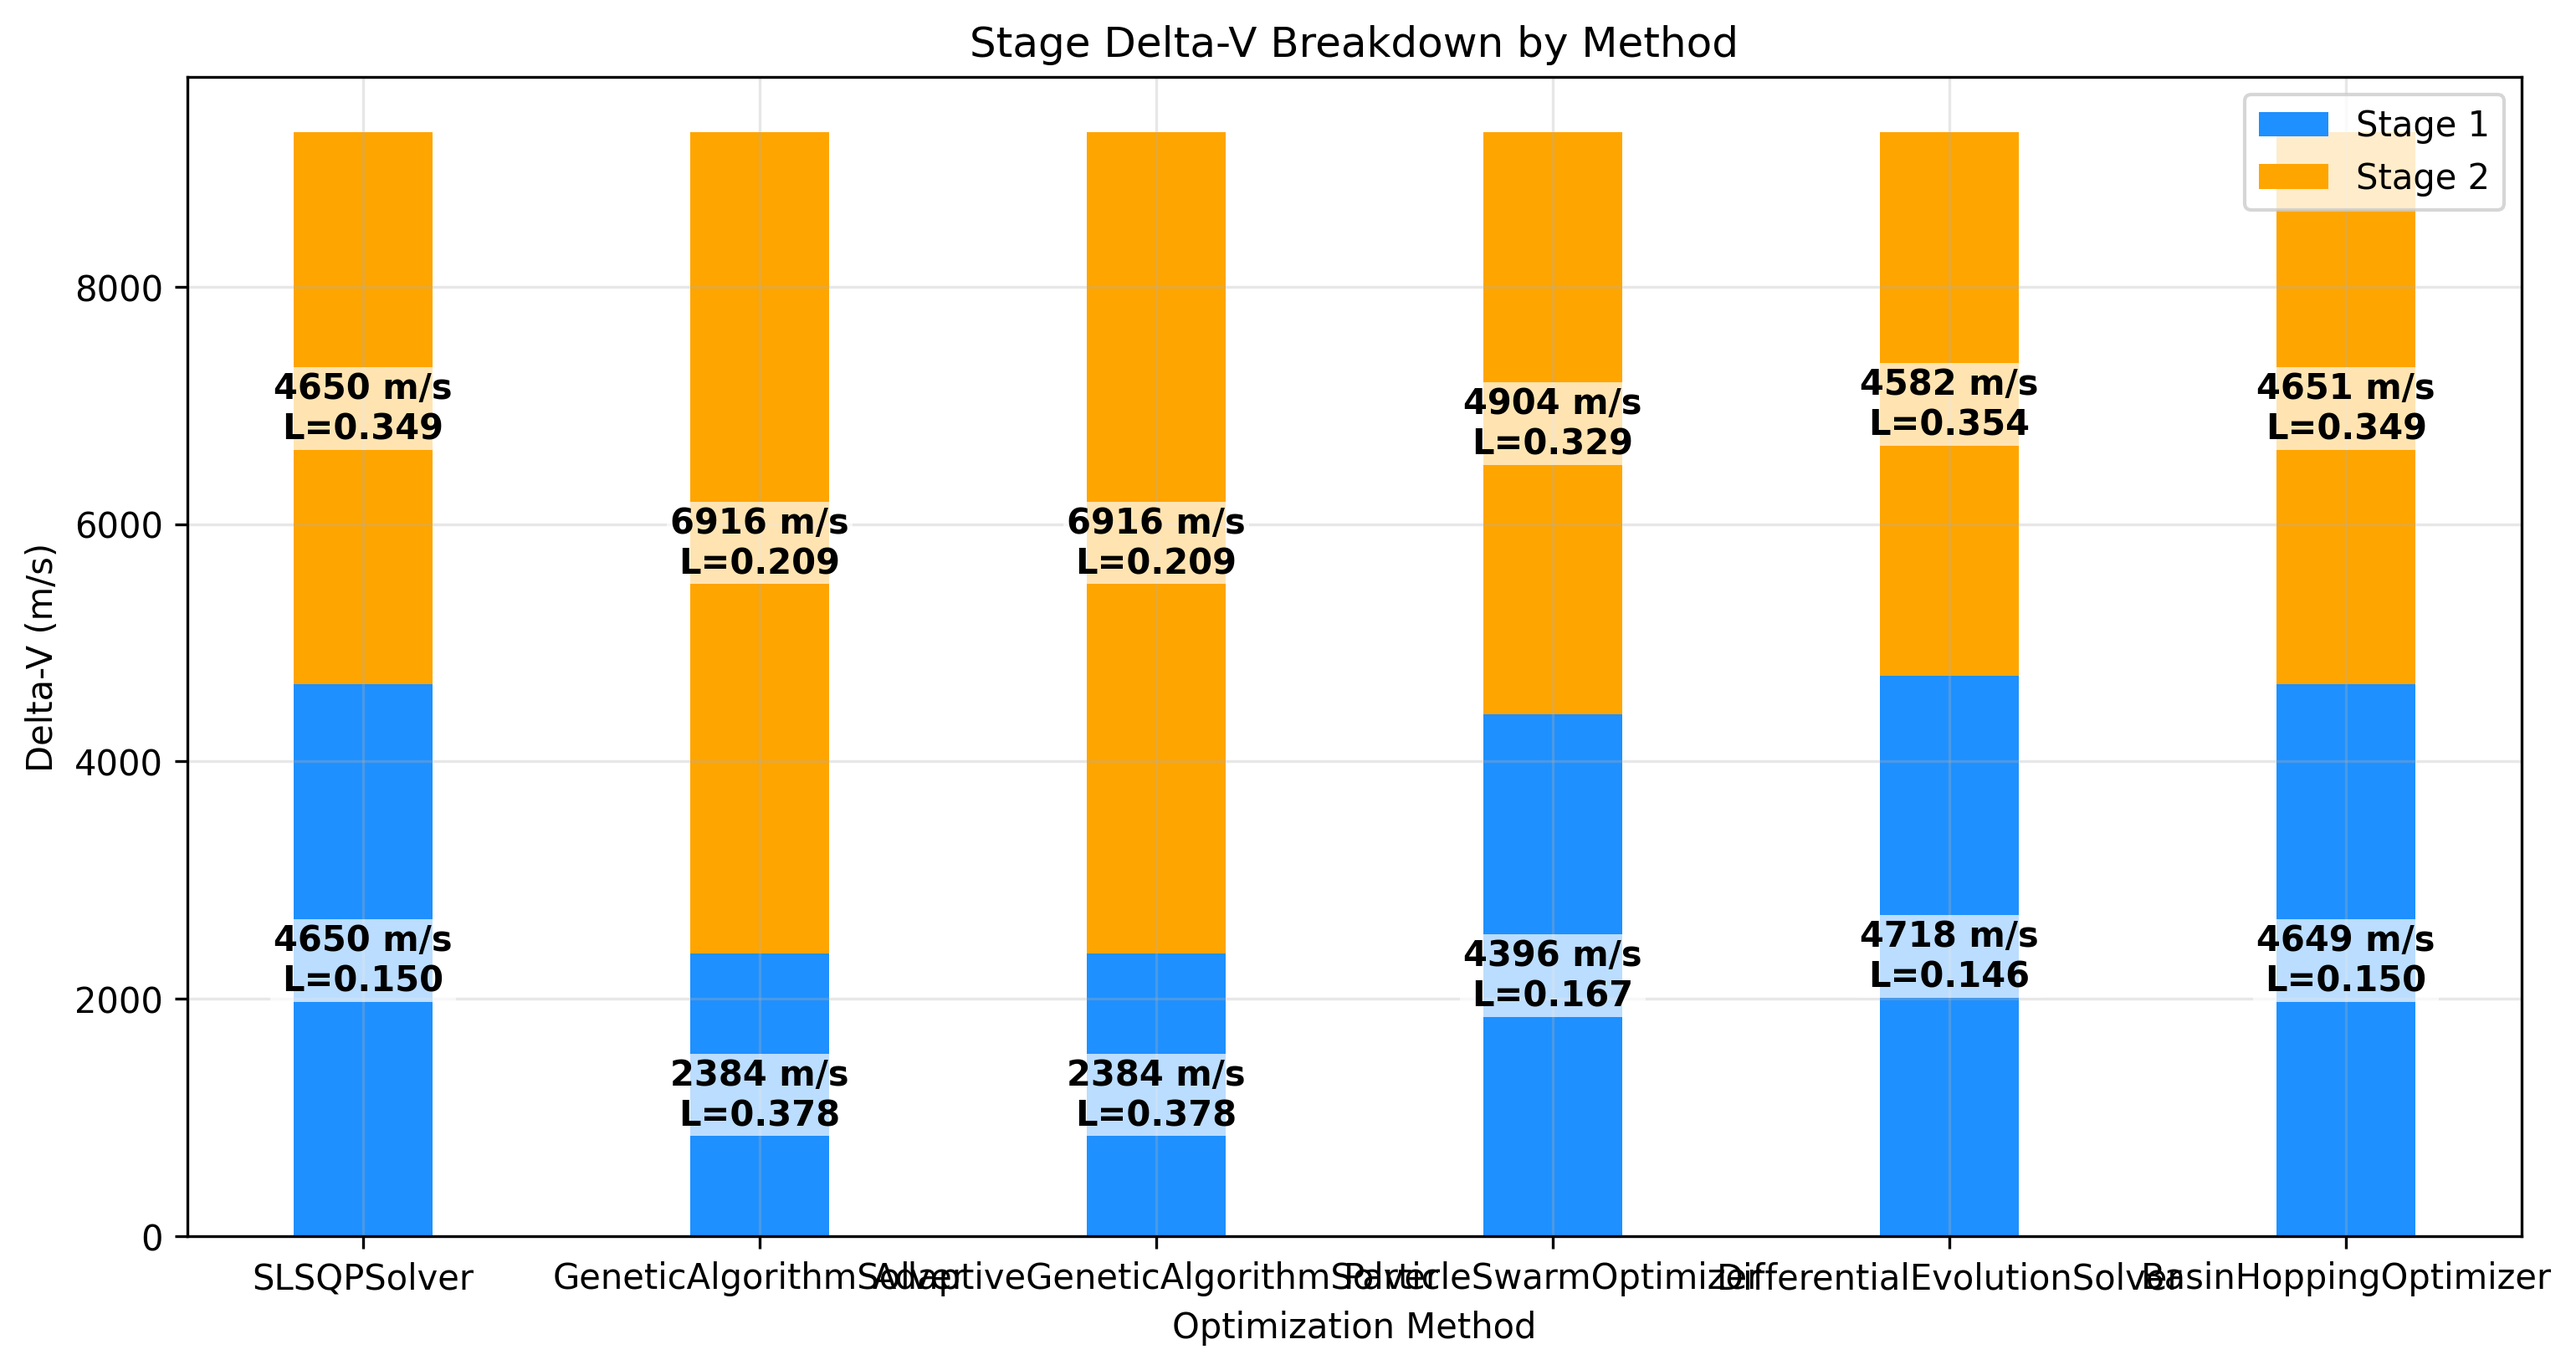
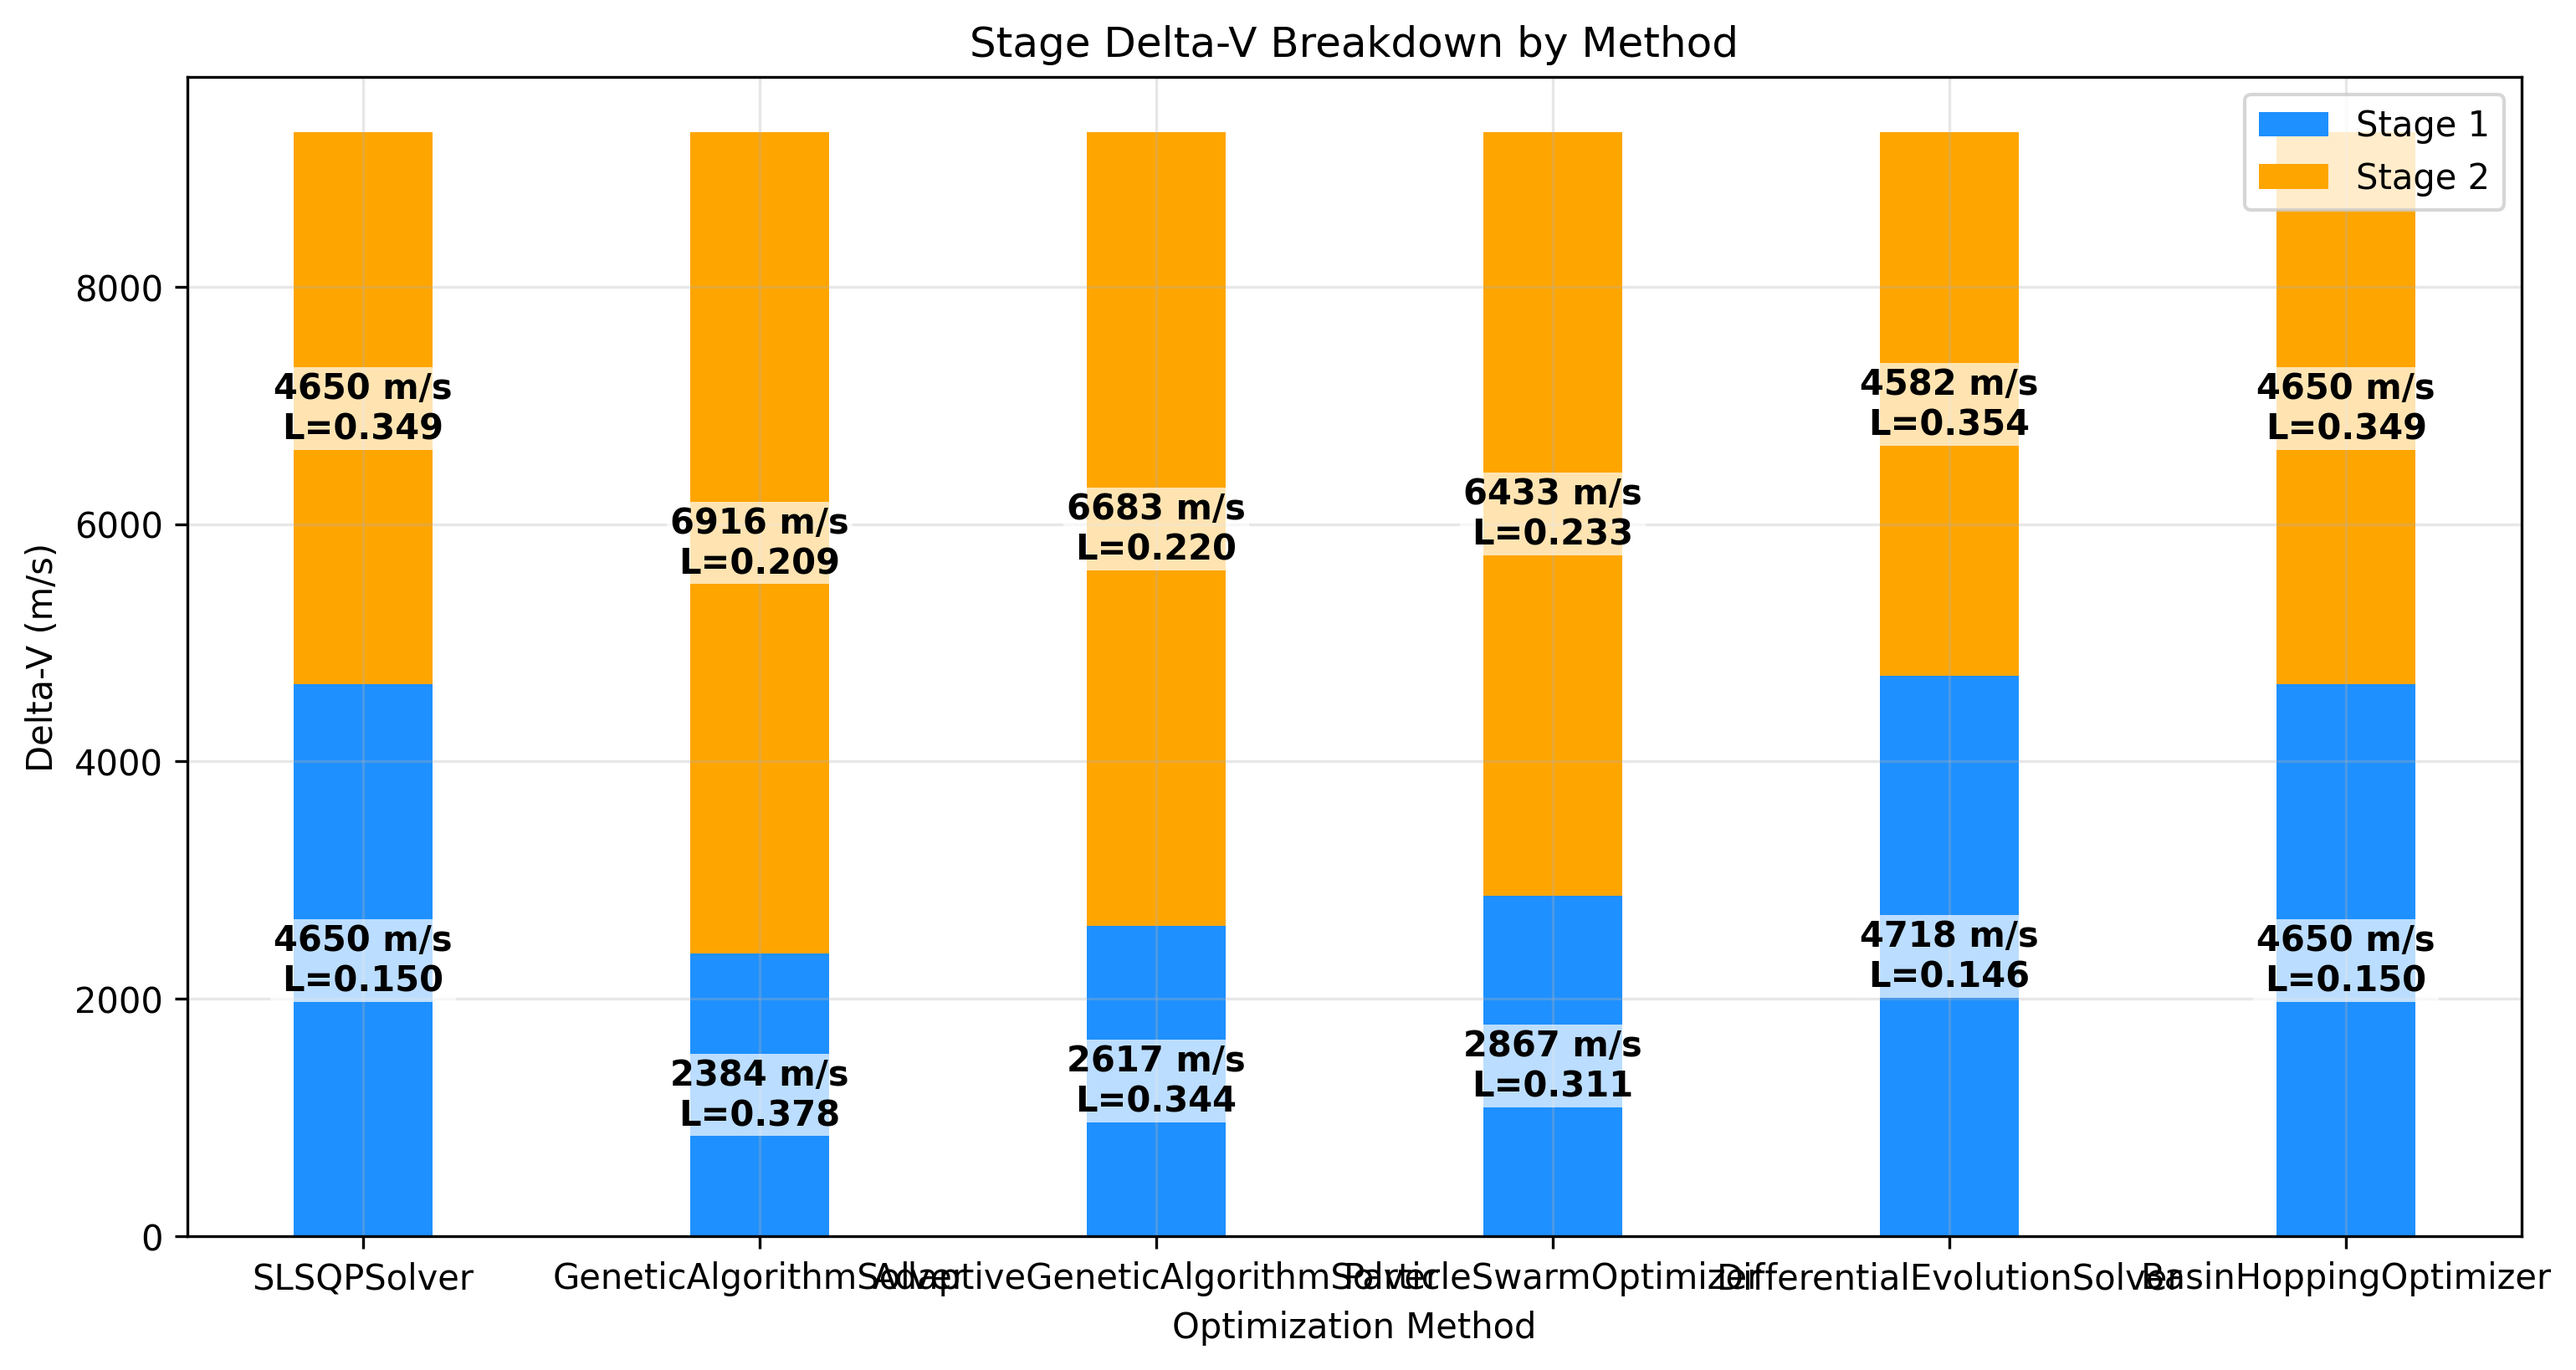
fixed and working

diff --git a/Stage_Opt/src/optimization/solvers/adaptive_ga_solver.py b/Stage_Opt/src/optimization/solvers/adaptive_ga_solver.py
@@ -1,6 +1,9 @@
 """Adaptive Genetic Algorithm solver implementation."""
 import numpy as np
 from pymoo.optimize import minimize
+from pymoo.algorithms.soo.nonconvex.ga import GA
+from pymoo.operators.mutation.pm import PM
+from pymoo.operators.crossover.sbx import SBX
 from ...utils.config import logger
 from .base_ga_solver import BaseGASolver
 
@@ -11,46 +14,84 @@ class AdaptiveGeneticAlgorithmSolver(BaseGASolver):
         """Initialize Adaptive GA solver."""
         super().__init__(config, problem_params)
         
-        # Initialize adaptive parameters
+        # Initialize adaptive parameters with consistent naming
         self.min_pop_size = int(self.solver_specific.get('min_pop_size', 50))
         self.max_pop_size = int(self.solver_specific.get('max_pop_size', 200))
-        self.min_gen = int(self.solver_specific.get('min_gen', 50))
-        self.max_gen = int(self.solver_specific.get('max_gen', 500))
+        self.min_generations = int(self.solver_specific.get('min_generations', 50))
+        self.max_generations = int(self.solver_specific.get('max_generations', 500))
         self.improvement_threshold = float(self.solver_specific.get('improvement_threshold', 0.01))
         self.adaptation_interval = int(self.solver_specific.get('adaptation_interval', 10))
+        
+        # Mutation and crossover rate adaptation parameters
+        self.min_mutation_rate = float(self.solver_specific.get('min_mutation_rate', 0.01))
+        self.max_mutation_rate = float(self.solver_specific.get('max_mutation_rate', 0.2))
+        self.min_crossover_rate = float(self.solver_specific.get('min_crossover_rate', 0.5))
+        self.max_crossover_rate = float(self.solver_specific.get('max_crossover_rate', 1.0))
         
         # Override base parameters for initial values
         self.pop_size = int(self.solver_specific.get('initial_pop_size', 100))
         self.mutation_rate = float(self.solver_specific.get('initial_mutation_rate', 0.1))
         self.crossover_rate = float(self.solver_specific.get('initial_crossover_rate', 0.9))
         
-        logger.debug(f"Initialized {self.name} with parameters: "
-                    f"min_pop_size={self.min_pop_size}, max_pop_size={self.max_pop_size}, "
-                    f"min_gen={self.min_gen}, max_gen={self.max_gen}")
+        logger.debug(f"Initialized {self.name} with adaptive parameters: "
+                    f"pop_size=[{self.min_pop_size}, {self.max_pop_size}], "
+                    f"generations=[{self.min_generations}, {self.max_generations}], "
+                    f"mutation_rate=[{self.min_mutation_rate}, {self.max_mutation_rate}], "
+                    f"crossover_rate=[{self.min_crossover_rate}, {self.max_crossover_rate}]")
     
-    def adapt_parameters(self, algorithm, history):
+    def adapt_parameters(self, algorithm):
         """Adapt algorithm parameters based on performance."""
-        if len(history) < 2:
+        if not hasattr(algorithm, 'pop') or algorithm.pop is None:
             return
             
-        # Get improvement in last interval
-        current_best = history[-1]
-        prev_best = history[-2]
-        improvement = (prev_best - current_best) / prev_best
+        # Get current population fitness values
+        fitness_values = algorithm.pop.get("F")
+        if fitness_values is None or len(fitness_values) == 0:
+            return
+            
+        current_best = np.min(fitness_values)
+        if not hasattr(self, '_prev_best'):
+            self._prev_best = current_best
+            return
+            
+        # Calculate improvement
+        improvement = (self._prev_best - current_best) / self._prev_best if self._prev_best != 0 else 0
+        self._prev_best = current_best
         
         # Adjust population size based on improvement
+        new_pop_size = algorithm.pop_size
         if improvement < self.improvement_threshold:
-            algorithm.pop_size = min(
-                self.max_pop_size,
-                int(algorithm.pop_size * 1.5)
-            )
+            new_pop_size = min(self.max_pop_size, int(algorithm.pop_size * 1.5))
         else:
-            algorithm.pop_size = max(
-                self.min_pop_size,
-                int(algorithm.pop_size * 0.8)
-            )
+            new_pop_size = max(self.min_pop_size, int(algorithm.pop_size * 0.8))
             
-        logger.debug(f"Adapted population size to {algorithm.pop_size}")
+        # Adjust mutation and crossover rates
+        if improvement < self.improvement_threshold:
+            # Increase exploration
+            self.mutation_rate = min(self.max_mutation_rate, self.mutation_rate * 1.2)
+            self.crossover_rate = max(self.min_crossover_rate, self.crossover_rate * 0.9)
+        else:
+            # Increase exploitation
+            self.mutation_rate = max(self.min_mutation_rate, self.mutation_rate * 0.9)
+            self.crossover_rate = min(self.max_crossover_rate, self.crossover_rate * 1.1)
+        
+        # Create new algorithm with adapted parameters if population size changed
+        if new_pop_size != algorithm.pop_size:
+            new_algorithm = self.create_algorithm(pop_size=new_pop_size)
+            if hasattr(new_algorithm, 'pop') and new_algorithm.pop is not None:
+                algorithm.pop = new_algorithm.pop
+                algorithm.pop_size = new_pop_size
+            
+        # Update operators if they exist
+        if hasattr(algorithm, 'mating'):
+            if hasattr(algorithm.mating, 'mutation'):
+                algorithm.mating.mutation.prob = self.mutation_rate
+            if hasattr(algorithm.mating, 'crossover'):
+                algorithm.mating.crossover.prob = self.crossover_rate
+        
+        logger.debug(f"Adapted parameters - pop_size: {new_pop_size}, "
+                    f"mutation_rate: {self.mutation_rate:.3f}, "
+                    f"crossover_rate: {self.crossover_rate:.3f}")
     
     def solve(self, initial_guess, bounds):
         """Solve using Adaptive Genetic Algorithm."""
@@ -61,17 +102,10 @@ class AdaptiveGeneticAlgorithmSolver(BaseGASolver):
             problem = self.create_problem(initial_guess, bounds)
             algorithm = self.create_algorithm(pop_size=self.pop_size)
             
-            # Initialize history
-            history = []
-            
             def callback(algorithm):
                 """Callback to track progress and adapt parameters."""
-                if algorithm.n_gen > 0:
-                    # Get minimum fitness value from current population
-                    fitness_values = algorithm.pop.get("F")
-                    history.append(np.min(fitness_values))
-                    if len(history) >= 2 and algorithm.n_gen % self.adaptation_interval == 0:
-                        self.adapt_parameters(algorithm, history)
+                if algorithm.n_gen > 0 and algorithm.n_gen % self.adaptation_interval == 0:
+                    self.adapt_parameters(algorithm)
             
             # Run optimization
             res = minimize(
@@ -96,7 +130,7 @@ class AdaptiveGeneticAlgorithmSolver(BaseGASolver):
                 message=message,
                 n_iterations=n_gen,
                 n_function_evals=n_eval,
-                time=0.0  # Time not tracked by pymoo
+                time=0.0
             )
             
         except Exception as e:

diff --git a/Stage_Opt/src/optimization/solvers/base_ga_solver.py b/Stage_Opt/src/optimization/solvers/base_ga_solver.py
@@ -18,15 +18,18 @@ class BaseGASolver(BaseSolver):
         super().__init__(config, problem_params)
         self.solver_specific = self.solver_config.get('solver_specific', {})
         
-        # Common GA parameters
+        # Common GA parameters with consistent naming
         self.pop_size = int(self.solver_specific.get('pop_size', 100))
-        self.max_generations = int(self.solver_specific.get('max_generations', 100))
+        self.n_generations = int(self.solver_specific.get('n_generations', 100))  # Changed from max_generations
         self.mutation_rate = float(self.solver_specific.get('mutation_rate', 0.1))
         self.crossover_rate = float(self.solver_specific.get('crossover_rate', 0.9))
         self.tournament_size = int(self.solver_specific.get('tournament_size', 3))
+        self.eta_crossover = float(self.solver_specific.get('eta_crossover', 30))  # Added SBX parameter
+        self.eta_mutation = float(self.solver_specific.get('eta_mutation', 30))  # Added PM parameter
         
         logger.debug(f"Initialized {self.name} with parameters: "
-                    f"pop_size={self.pop_size}, max_generations={self.max_generations}")
+                    f"pop_size={self.pop_size}, n_generations={self.n_generations}, "
+                    f"mutation_rate={self.mutation_rate}, crossover_rate={self.crossover_rate}")
 
     def create_tournament_selection(self):
         """Create tournament selection operator with comparison function."""
@@ -66,8 +69,8 @@ class BaseGASolver(BaseSolver):
         return GA(
             pop_size=pop_size,
             sampling=FloatRandomSampling(),
-            crossover=SBX(prob=self.crossover_rate, eta=30),
-            mutation=PM(prob=self.mutation_rate, eta=30),
+            crossover=SBX(prob=self.crossover_rate, eta=self.eta_crossover),
+            mutation=PM(prob=self.mutation_rate, eta=self.eta_mutation),
             selection=self.create_tournament_selection(),
             eliminate_duplicates=True
         )

diff --git a/Stage_Opt/src/optimization/solvers/ga_solver.py b/Stage_Opt/src/optimization/solvers/ga_solver.py
@@ -12,14 +12,10 @@ class GeneticAlgorithmSolver(BaseGASolver):
         self.solver_specific = self.solver_config.get('solver_specific', {})
         
         # Get solver parameters from config
-        self.pop_size = int(self.solver_specific.get('pop_size', 100))
-        self.max_generations = int(self.solver_specific.get('max_generations', 100))
-        self.mutation_rate = float(self.solver_specific.get('mutation_rate', 0.1))
-        self.crossover_rate = float(self.solver_specific.get('crossover_rate', 0.9))
-        self.tournament_size = int(self.solver_specific.get('tournament_size', 3))
+        self.n_generations = int(self.solver_specific.get('max_generations', 100))
         
         logger.debug(f"Initialized {self.name} with parameters: "
-                    f"pop_size={self.pop_size}, max_generations={self.max_generations}")
+                    f"max_generations={self.n_generations}")
 
     def solve(self, initial_guess, bounds):
         """Solve using Genetic Algorithm."""
@@ -34,7 +30,7 @@ class GeneticAlgorithmSolver(BaseGASolver):
             res = minimize(
                 problem,
                 algorithm,
-                ('n_gen', self.max_generations),
+                ('n_gen', self.n_generations),  
                 seed=1,
                 verbose=False
             )
